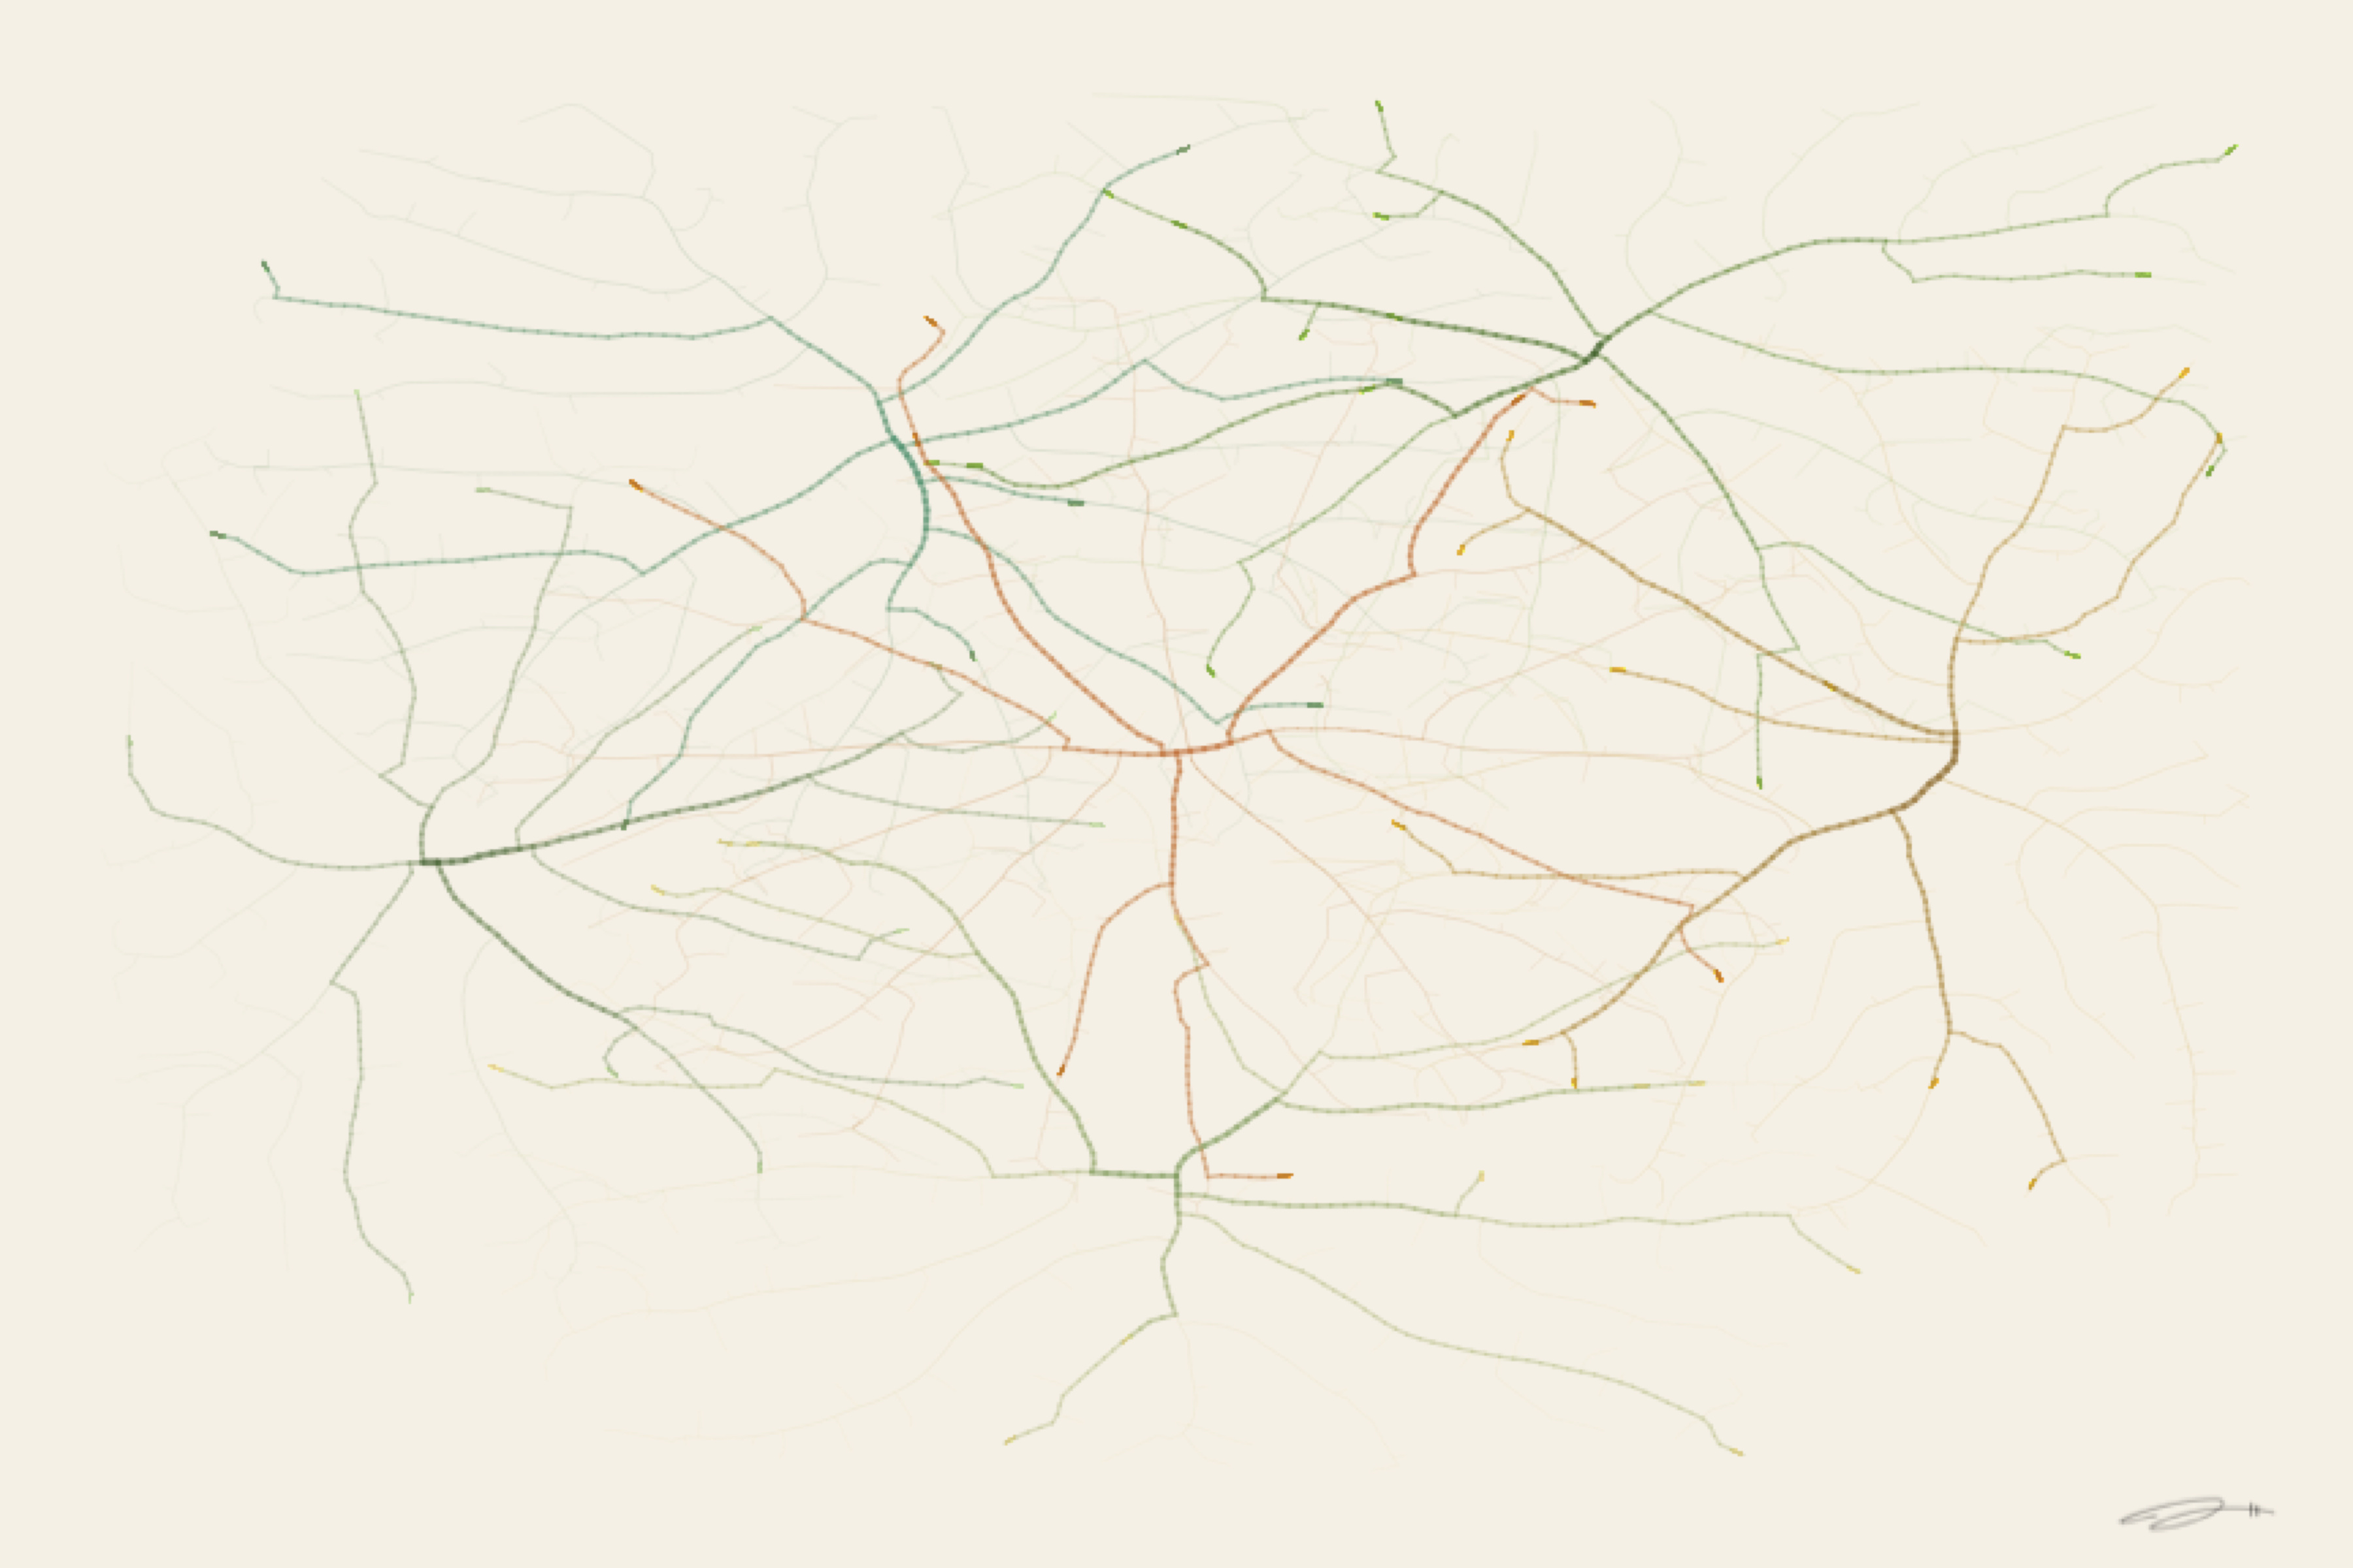
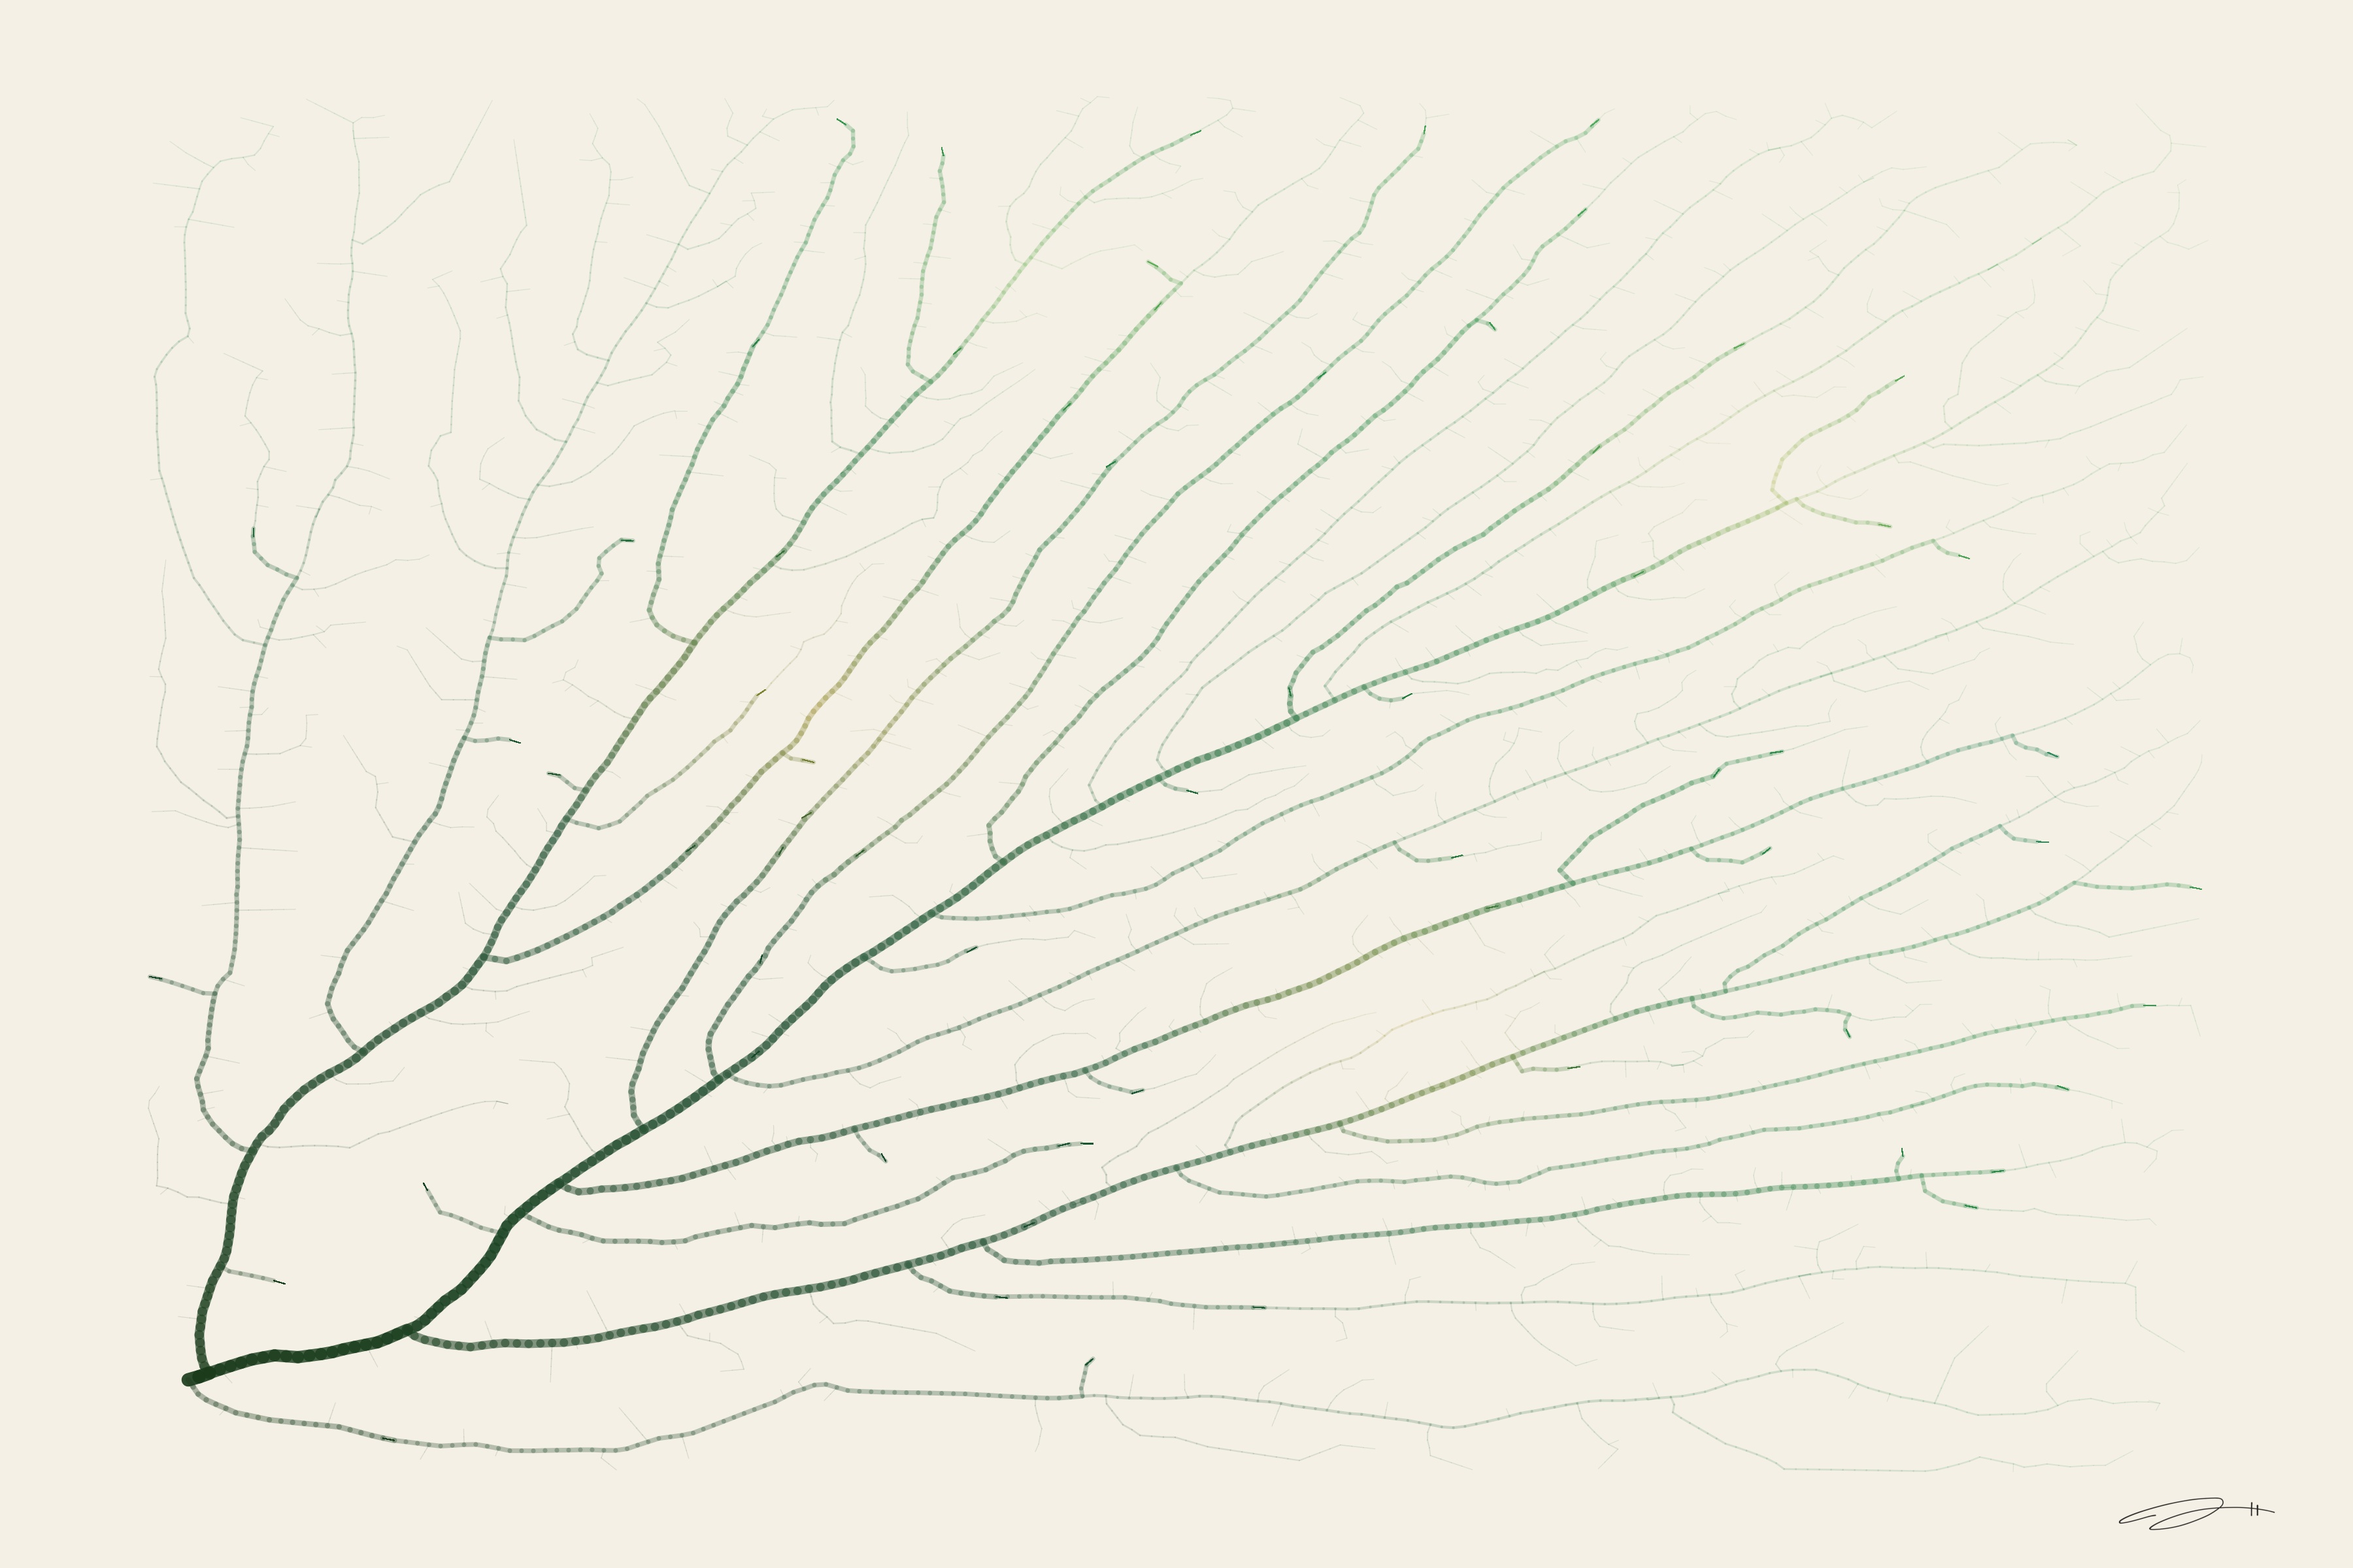
Rework Growth: Mycelium — single origin with nutrient zone color shifts
Replaces the scattered 6-seed composition with a single bottom-left
origin that explores through clustered nutrient zones, shifting color
at discovery sites. Stronger trunk-to-tip hierarchy via pipe model.

diff --git a/mathematical_affect/pieces/growth/growth_mycelium.py b/mathematical_affect/pieces/growth/growth_mycelium.py
@@ -1,9 +1,10 @@
 """
 Geometry of Feeling — Growth: Mycelium
 Space colonization algorithm (Runions et al. 2007) —
-six spore germination sites each grow a branching
-network through a shared attractor field. Thick trunk
-hyphae taper to gossamer tips via the pipe model.
+a single spore site grows a branching network through
+clustered nutrient zones, shifting color as it discovers
+each one. Thick trunk hyphae taper to gossamer tips
+via the pipe model.
 
 Dependencies: matplotlib, numpy, scipy
     pip install matplotlib numpy scipy
@@ -21,29 +22,46 @@ from scipy.spatial import KDTree
 
 SCRIPT_DIR = os.path.dirname(os.path.abspath(__file__))
 OUTPUT_DIR = os.path.join(SCRIPT_DIR, '..', '..', 'output')
+PRINT_DIR = os.path.join(SCRIPT_DIR, '..', '..', '..', 'public', 'prints', 'growth')
 
 DPI = 300
 FIG_W = 12
 FIG_H = 8
 BG_COLOR = '#F5F0E6'
 
+# ── Growth Series Palette ─────────────────────────────────────────────────────
+DEEP_MOSS    = '#1A3A1A'
+DARK_GREEN   = '#1A4D2E'
+FOREST       = '#2E8B4A'
+SPRING       = '#6BBF6E'
+LIME         = '#A8D86E'
+GOLD         = '#E8D878'
+TEAL         = '#2A7A6A'
+AMBER        = '#C8A030'
+WARM_OCHRE   = '#D4A832'
+
+
 def hex_to_rgb01(h):
     h = h.lstrip("#")
     return np.array([int(h[i:i+2], 16) for i in (0, 2, 4)]) / 255.0
 
+
 def blend(c1, c2, t):
     return (1 - t) * np.asarray(c1) + t * np.asarray(c2)
 
+
 # ── Space Colonization ─────────────────────────────────────────────────────────
-def space_colonize(attractors, root, step=0.008, influence=0.12,
-                   kill=0.008, max_iter=600):
+def space_colonize(attractors, root, step=0.005, influence=0.10,
+                   kill=0.005, max_iter=1000):
     """
     Runions et al. 2007 space colonization algorithm.
     Operates in normalized coordinates (0..1, 0..1).
+    Returns nodes, parents, and depth for each node.
     """
     att = np.array(attractors, dtype=float).copy()
     nodes = [np.array(root, dtype=float)]
     parents = [-1]
+    depths = [0]
 
     for _ in range(max_iter):
         if len(att) == 0:
@@ -71,13 +89,15 @@ def space_colonize(attractors, root, step=0.008, influence=0.12,
                 avg /= n2
             nodes.append(nodes[ni] + avg * step)
             parents.append(ni)
+            depths.append(depths[ni] + 1)
 
         na = np.array(nodes)
         tree = KDTree(na)
         dists, _ = tree.query(att)
         att = att[dists > kill]
 
-    return nodes, parents
+    return nodes, parents, depths
+
 
 def pipe_model(parents, n_nodes):
     """Compute subtree size for each node (pipe model thickness)."""
@@ -88,28 +108,31 @@ def pipe_model(parents, n_nodes):
             cc[p] += cc[i]
     return cc
 
-def render_network(ax, nodes, parents, col_dark, col_light,
-                   lw_max=2.8, alpha_base=0.10, alpha_max=0.75):
-    """Render tree with depth-based color/thickness."""
+
+def render_network(ax, nodes, parents, depths, palette_func,
+                   lw_max=5.0, lw_min=0.08, alpha_trunk=0.92,
+                   alpha_tip=0.12):
+    """Render network with pipe-model thickness and zone-aware color."""
     n = len(nodes)
     if n < 2:
         return
 
     cc = pipe_model(parents, n)
     max_cc = cc.max()
-
-    cd = hex_to_rgb01(col_dark)
-    cl = hex_to_rgb01(col_light)
+    max_depth = max(depths) if depths else 1
 
     for i in range(1, n):
         p = parents[i]
         if p < 0:
             continue
 
-        frac = (cc[i] / max_cc) ** 0.35
-        col = tuple(cd[k] + (cl[k] - cd[k]) * (1 - frac) for k in range(3))
-        alpha = alpha_base + (alpha_max - alpha_base) * frac
-        lw = max(0.12, lw_max * (frac ** 0.8))
+        frac = (cc[i] / max_cc) ** 0.4
+        lw = lw_min + (lw_max - lw_min) * (frac ** 0.7)
+
+        depth_frac = depths[i] / max_depth if max_depth > 0 else 0
+        col = palette_func(depth_frac, nodes[i])
+
+        alpha = alpha_tip + (alpha_trunk - alpha_tip) * frac
 
         ax.plot([nodes[p][0], nodes[i][0]],
                 [nodes[p][1], nodes[i][1]],
@@ -118,7 +141,38 @@ def render_network(ax, nodes, parents, col_dark, col_light,
                 solid_capstyle='round',
                 zorder=max(1, int(frac * 10)))
 
+
+def make_nutrient_palette(base_colors_hex, zone_specs):
+    """Palette that shifts color near nutrient discovery zones."""
+    base_colors = [hex_to_rgb01(h) for h in base_colors_hex]
+
+    def palette_func(depth_frac, pos):
+        # Base color interpolated by depth
+        t = np.clip(depth_frac, 0, 1)
+        idx = t * (len(base_colors) - 1)
+        i = int(np.floor(idx))
+        f = idx - i
+        if i >= len(base_colors) - 1:
+            base = np.array(base_colors[-1])
+        else:
+            base = np.array(blend(base_colors[i], base_colors[i + 1], f))
+
+        # Shift color near nutrient zones
+        pos = np.array(pos)
+        for (zx, zy, radius, color_hex) in zone_specs:
+            zc = hex_to_rgb01(color_hex)
+            d = np.sqrt((pos[0] - zx)**2 + (pos[1] - zy)**2)
+            if d < radius:
+                mix = (1.0 - (d / radius)) ** 1.5
+                base = blend(base, zc, mix * 0.75)
+
+        return tuple(base)
+    return palette_func
+
+
 def render():
+    rng = np.random.default_rng(2020)
+
     fig, ax = plt.subplots(figsize=(FIG_W, FIG_H), dpi=DPI, facecolor=BG_COLOR)
     fig.subplots_adjust(0, 0, 1, 1)
     ax.set_position([0, 0, 1, 1])
@@ -127,63 +181,72 @@ def render():
     ax.set_ylim(0, 1)
     ax.axis('off')
 
-    rng = np.random.default_rng(2026)
+    # Nutrient-rich zones with gaps between them
+    nutrient_centers = [
+        (0.35, 0.55), (0.60, 0.35), (0.75, 0.70),
+        (0.45, 0.82), (0.85, 0.50),
+    ]
 
-    # Attractor field across the canvas
-    n_attractors = 2500
-    att_all = np.column_stack([
-        rng.uniform(0.04, 0.96, n_attractors),
-        rng.uniform(0.06, 0.94, n_attractors)
+    # Clustered attractors around nutrient centers
+    all_att = []
+    for cx, cy in nutrient_centers:
+        pts = np.column_stack([
+            rng.normal(cx, 0.16, 500),
+            rng.normal(cy, 0.16, 500)
+        ])
+        pts = pts[(pts[:, 0] > 0.06) & (pts[:, 0] < 0.94) &
+                  (pts[:, 1] > 0.06) & (pts[:, 1] < 0.94)]
+        all_att.append(pts)
+
+    # Sparse background attractors for connective tendrils
+    att_bg = np.column_stack([
+        rng.uniform(0.06, 0.94, 800),
+        rng.uniform(0.06, 0.94, 800)
     ])
+    all_att.append(att_bg)
+    att = np.vstack(all_att)
 
-    # 6 seed points — spore germination sites
-    seeds = [
-        (0.18, 0.45),
-        (0.50, 0.25),
-        (0.82, 0.50),
-        (0.38, 0.72),
-        (0.68, 0.78),
-        (0.50, 0.52),
+    # Single origin — bottom left
+    nodes, parents, depths = space_colonize(
+        att, (0.08, 0.12),
+        step=0.005,
+        influence=0.10,
+        kill=0.005,
+        max_iter=1000
+    )
+
+    # Nutrient zones: network shifts color as it finds each one
+    zone_specs = [
+        (0.35, 0.55, 0.14, AMBER),
+        (0.60, 0.35, 0.12, WARM_OCHRE),
+        (0.75, 0.70, 0.13, GOLD),
+        (0.45, 0.82, 0.11, LIME),
+        (0.85, 0.50, 0.12, TEAL),
     ]
+    palette = make_nutrient_palette(
+        [DEEP_MOSS, DARK_GREEN, FOREST, SPRING], zone_specs
+    )
 
-    # Color pairs: dark trunk → light tips
-    color_pairs = [
-        ('#2A4A1A', '#C8D8A8'),   # deep green → pale green
-        ('#4A7A3A', '#E8D898'),   # moss → pale amber
-        ('#7A5A2A', '#D4A832'),   # umber → amber
-        ('#3A8A6A', '#7A9A6A'),   # teal → sage
-        ('#2A4A1A', '#8AB84A'),   # dark → spring green
-        ('#C06030', '#B87A2A'),   # sienna → ochre
-    ]
+    render_network(ax, nodes, parents, depths, palette,
+                   lw_max=5.0, lw_min=0.08,
+                   alpha_trunk=0.92, alpha_tip=0.12)
 
-    for (sx, sy), (col_d, col_l) in zip(seeds, color_pairs):
-        # Each seed colonizes attractors within reach
-        dists = np.sqrt((att_all[:, 0] - sx)**2 + (att_all[:, 1] - sy)**2)
-        local = att_all[dists < 0.30]
-        if len(local) < 20:
-            continue
-        if len(local) > 400:
-            idx = rng.choice(len(local), 400, replace=False)
-            local = local[idx]
-
-        nodes, parents = space_colonize(
-            local, (sx, sy),
-            step=0.006,
-            influence=0.10,
-            kill=0.006,
-            max_iter=600
-        )
-
-        render_network(ax, nodes, parents, col_d, col_l,
-                       lw_max=3.0, alpha_base=0.08, alpha_max=0.78)
+    add_signature(fig, ax, BG_COLOR)
 
     os.makedirs(OUTPUT_DIR, exist_ok=True)
     pdf_path = os.path.join(OUTPUT_DIR, "growth_mycelium.pdf")
-    add_signature(fig, ax, BG_COLOR)
     fig.savefig(pdf_path, facecolor=BG_COLOR, dpi=DPI)
-    plt.close(fig)
     print(f"saved {pdf_path}")
+
+    # Also save JPG for site
+    os.makedirs(PRINT_DIR, exist_ok=True)
+    jpg_path = os.path.join(PRINT_DIR, "growth_mycelium.jpg")
+    fig.savefig(jpg_path, facecolor=BG_COLOR, dpi=DPI, format='jpg')
+    print(f"saved {jpg_path}")
+
+    plt.close(fig)
     return pdf_path
+
 
 if __name__ == '__main__':
     render()
